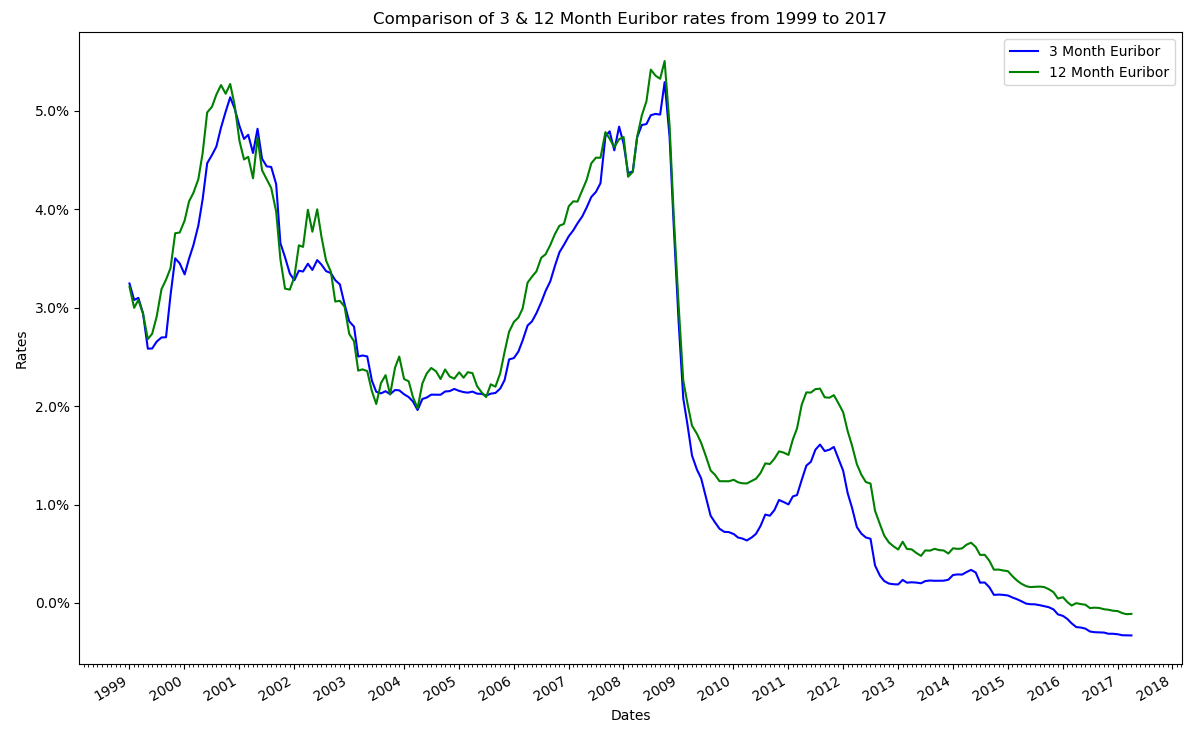
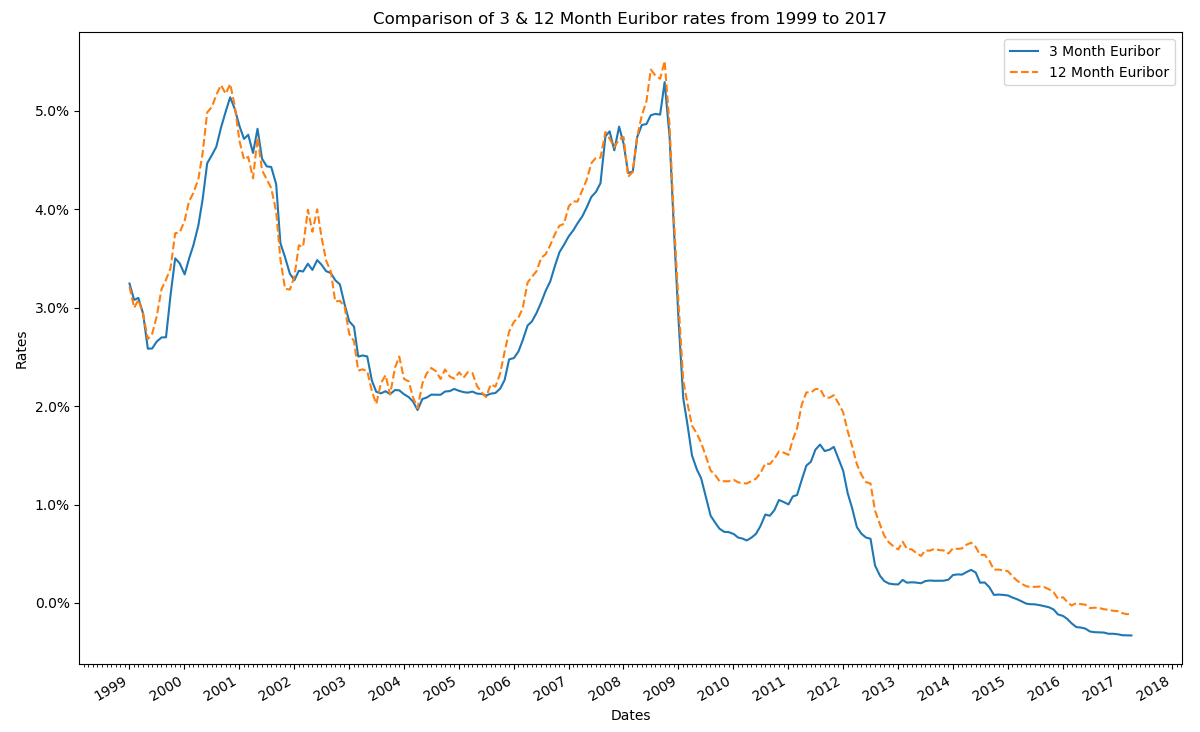
Improved color accessibility

diff --git a/euribor/euribor.py b/euribor/euribor.py
@@ -22,7 +22,7 @@ dates = [i['date'] for i in data]
 rates = [i['rate'] for i in data]
 df = pd.DataFrame({'dates':dates, 'rates':rates})
 df['dates']  = [pd.to_datetime(i) for i in df['dates']]
-plt.plot(df['dates'], df['rates'], 'b')
+plt.plot(df['dates'], df['rates'], 'tab:blue')
 
 # Plot 12 month Euribor data
 with open('12m.json', 'r') as file:
@@ -31,7 +31,7 @@ dates = [i['date'] for i in data2]
 rates = [i['rate'] for i in data2]
 df = pd.DataFrame({'dates':dates, 'rates':rates})
 df['dates']  = [pd.to_datetime(i) for i in df['dates']]
-plt.plot(df['dates'], df['rates'], 'g')
+plt.plot(df['dates'], df['rates'], 'tab:orange', linestyle='--')
 
 # Format time axis
 plt.gca().xaxis.set_major_locator(mdates.YearLocator())
